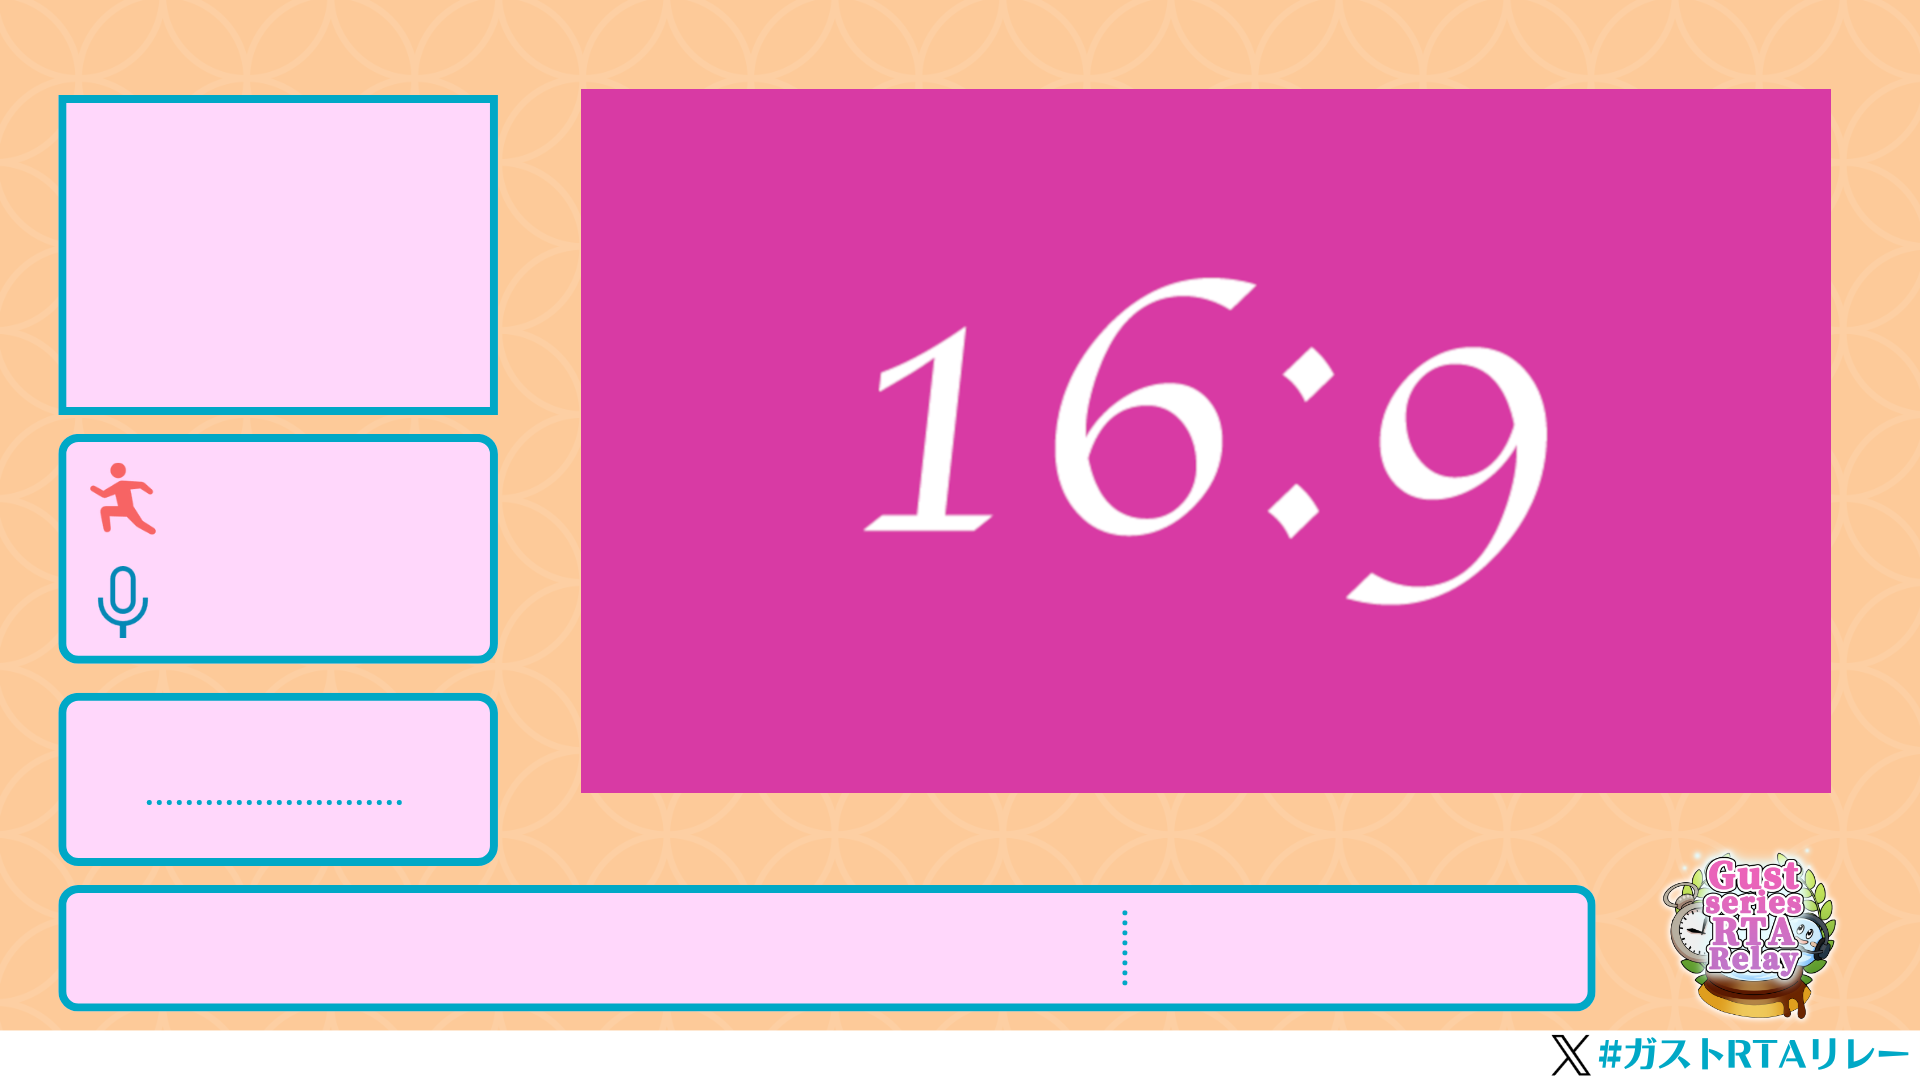
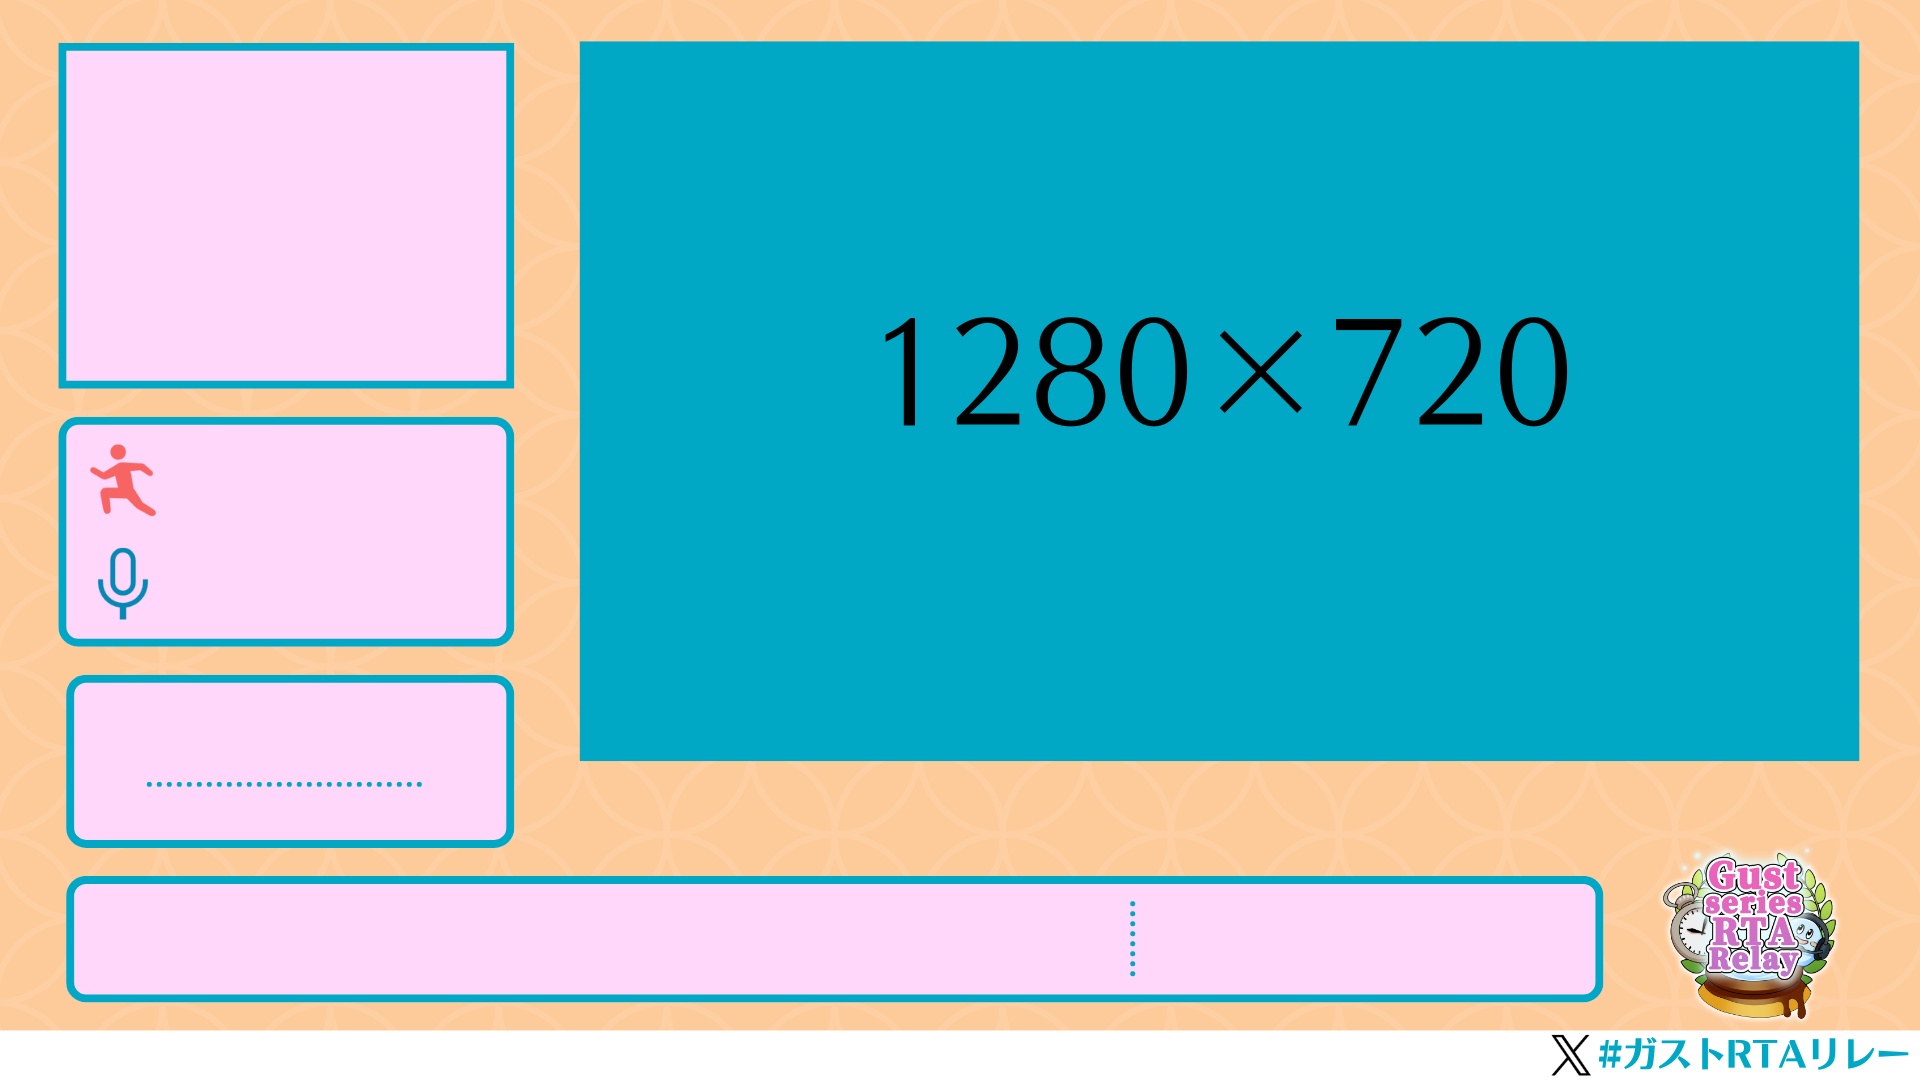
fix layouts and pictures

diff --git a/src/graphics/css/singleHd.css b/src/graphics/css/singleHd.css
@@ -7,10 +7,10 @@ timer
 --------------------------------------------------*/
 .time {
   position: absolute;
-  width: 258px;
+  width: 278px;
   height: 130px;
   left: 145px;
-  top: 715px;
+  top: 700px;
   text-align: center;
 }
 
@@ -51,7 +51,7 @@ timer
 
 .est {
   position: relative;
-  top: 8px;
+  top: 4px;
 }
 
 /*--------------------------------------------------
@@ -63,10 +63,10 @@ gameinfo
   align-items: center;
   justify-content: center;
   position: absolute;
-  width: 1060px;
+  width: 1050px;
   height: 78px;
-  left: 65px;
-  top: 910px;
+  left: 75px;
+  top: 900px;
 }
 
 .gametitle span {
@@ -81,9 +81,9 @@ gameinfo
   justify-content: center;
   position: absolute;
   width: 450px;
-  height: 40px;
-  left: 1130px;
-  top: 930px;
+  height: 78px;
+  left: 1140px;
+  top: 900px;
   font-size: 28px;
   font-family: 'RoundedMedium';
 }
@@ -99,8 +99,8 @@ player
   position: absolute;
   width: 330px;
   height: 80px;
-  left: 160px;
-  top: 460px;
+  left: 165px;
+  top: 440px;
   font-size: 33.0px;
   font-family: 'RoundedBold';
 }
@@ -114,13 +114,12 @@ player
   align-items: center;
   justify-content: center;
   position: absolute;
-  width: 310px;
+  width: 330px;
   height: 80px;
   left: 165px;
-  top: 460px;
+  top: 440px;
   font-size: 34px;
   font-family: 'RoundedBold';
-  text-align: center;
 }
 
 .twitch,
@@ -164,8 +163,8 @@ Commentator
   position: absolute;
   width: 330px;
   height: 80px;
-  left: 160px;
-  top: 565px;
+  left: 165px;
+  top: 545px;
   font-size: 33px;
   font-family: 'RoundedBold';
 }
@@ -177,8 +176,8 @@ Commentator
   position: absolute;
   width: 330px;
   height: 80px;
-  left: 160px;
-  top: 565px;
+  left: 165px;
+  top: 545px;
   font-size: 34px;
   font-family: 'RoundedBold';
 }

diff --git a/src/graphics/css/singleSd.css b/src/graphics/css/singleSd.css
@@ -7,10 +7,10 @@ timer
 --------------------------------------------------*/
 .time {
   position: absolute;
-  width: 258px;
+  width: 278px;
   height: 130px;
   left: 145px;
-  top: 715px;
+  top: 700px;
   text-align: center;
 }
 
@@ -51,7 +51,7 @@ timer
 
 .est {
   position: relative;
-  top: 8px;
+  top: 4px;
 }
 
 /*--------------------------------------------------
@@ -63,10 +63,10 @@ gameinfo
   align-items: center;
   justify-content: center;
   position: absolute;
-  width: 1060px;
+  width: 1050px;
   height: 78px;
-  left: 65px;
-  top: 910px;
+  left: 75px;
+  top: 900px;
 }
 
 .gametitle span {
@@ -81,9 +81,9 @@ gameinfo
   justify-content: center;
   position: absolute;
   width: 450px;
-  height: 40px;
-  left: 1130px;
-  top: 930px;
+  height: 78px;
+  left: 1140px;
+  top: 900px;
   font-size: 28px;
   font-family: 'RoundedMedium';
 }
@@ -99,9 +99,9 @@ player
   position: absolute;
   width: 330px;
   height: 80px;
-  left: 160px;
-  top: 460px;
-  font-size: 33px;
+  left: 165px;
+  top: 440px;
+  font-size: 33.0px;
   font-family: 'RoundedBold';
 }
 
@@ -117,10 +117,9 @@ player
   width: 330px;
   height: 80px;
   left: 165px;
-  top: 460px;
+  top: 440px;
   font-size: 34px;
   font-family: 'RoundedBold';
-  text-align: center;
 }
 
 .twitch,
@@ -164,8 +163,8 @@ Commentator
   position: absolute;
   width: 330px;
   height: 80px;
-  left: 160px;
-  top: 565px;
+  left: 165px;
+  top: 545px;
   font-size: 33px;
   font-family: 'RoundedBold';
 }
@@ -177,8 +176,8 @@ Commentator
   position: absolute;
   width: 330px;
   height: 80px;
-  left: 160px;
-  top: 565px;
+  left: 165px;
+  top: 545px;
   font-size: 34px;
   font-family: 'RoundedBold';
 }

diff --git a/src/graphics/css/doubleSd.css b/src/graphics/css/doubleSd.css
@@ -89,9 +89,9 @@ gameinfo
   justify-content: center;
   position: absolute;
   width: 450px;
-  height: 40px;
+  height: 78px;
   left: 1130px;
-  top: 930px;
+  top: 910px;
   font-size: 28px;
   font-family: 'RoundedMedium';
 }
@@ -104,12 +104,13 @@ player
   align-items: center;
   justify-content: center;
   position: absolute;
-  width: 260px;
+  width: 280px;
   height: 80px;
-  left: 240px;
+  left: 245px;
   top: 680px;
-  font-size: 33.0px;
+  font-size: 33px;
   font-family: 'RoundedBold';
+  border: 1px solid;
 }
 
 .player1 .sns {
@@ -119,7 +120,7 @@ player
   position: absolute;
   width: 280px;
   height: 80px;
-  left: 240px;
+  left: 245px;
   top: 680px;
   font-size: 34px;
   font-family: 'RoundedBold';
@@ -149,7 +150,7 @@ player2
   align-items: center;
   justify-content: center;
   position: absolute;
-  width: 280px;
+  width: 275px;
   height: 80px;
   left: 1480px;
   top: 680px;
@@ -162,7 +163,7 @@ player2
   align-items: center;
   justify-content: center;
   position: absolute;
-  width: 280px;
+  width: 275px;
   height: 80px;
   left: 1480px;
   top: 680px;

diff --git a/src/graphics/components/setupSchedule/setupSchedule.vue b/src/graphics/components/setupSchedule/setupSchedule.vue
@@ -55,7 +55,7 @@ const upcomingStartIn = computed(() => {
 </script>
 
 <template>
-  <div id="next">NEXT</div>
+  <!--<div id="next">NEXT</div>-->
   <div class="mokuji">
     <UpnextSchedule :run-data="upnextRun" />
     <OndeckSchedule

diff --git a/src/graphics/components/spotifyTrack.vue b/src/graphics/components/spotifyTrack.vue
@@ -14,7 +14,8 @@ const artists = computed(() => spotifyPlayingTrack?.data?.artists.join(', ') || 
 </script>
 
 <template>
+  <!--
   <div class="bgm">
     <span>{{ trackName }} - {{ artists }}</span>
-  </div>
+  </div>-->
 </template>
